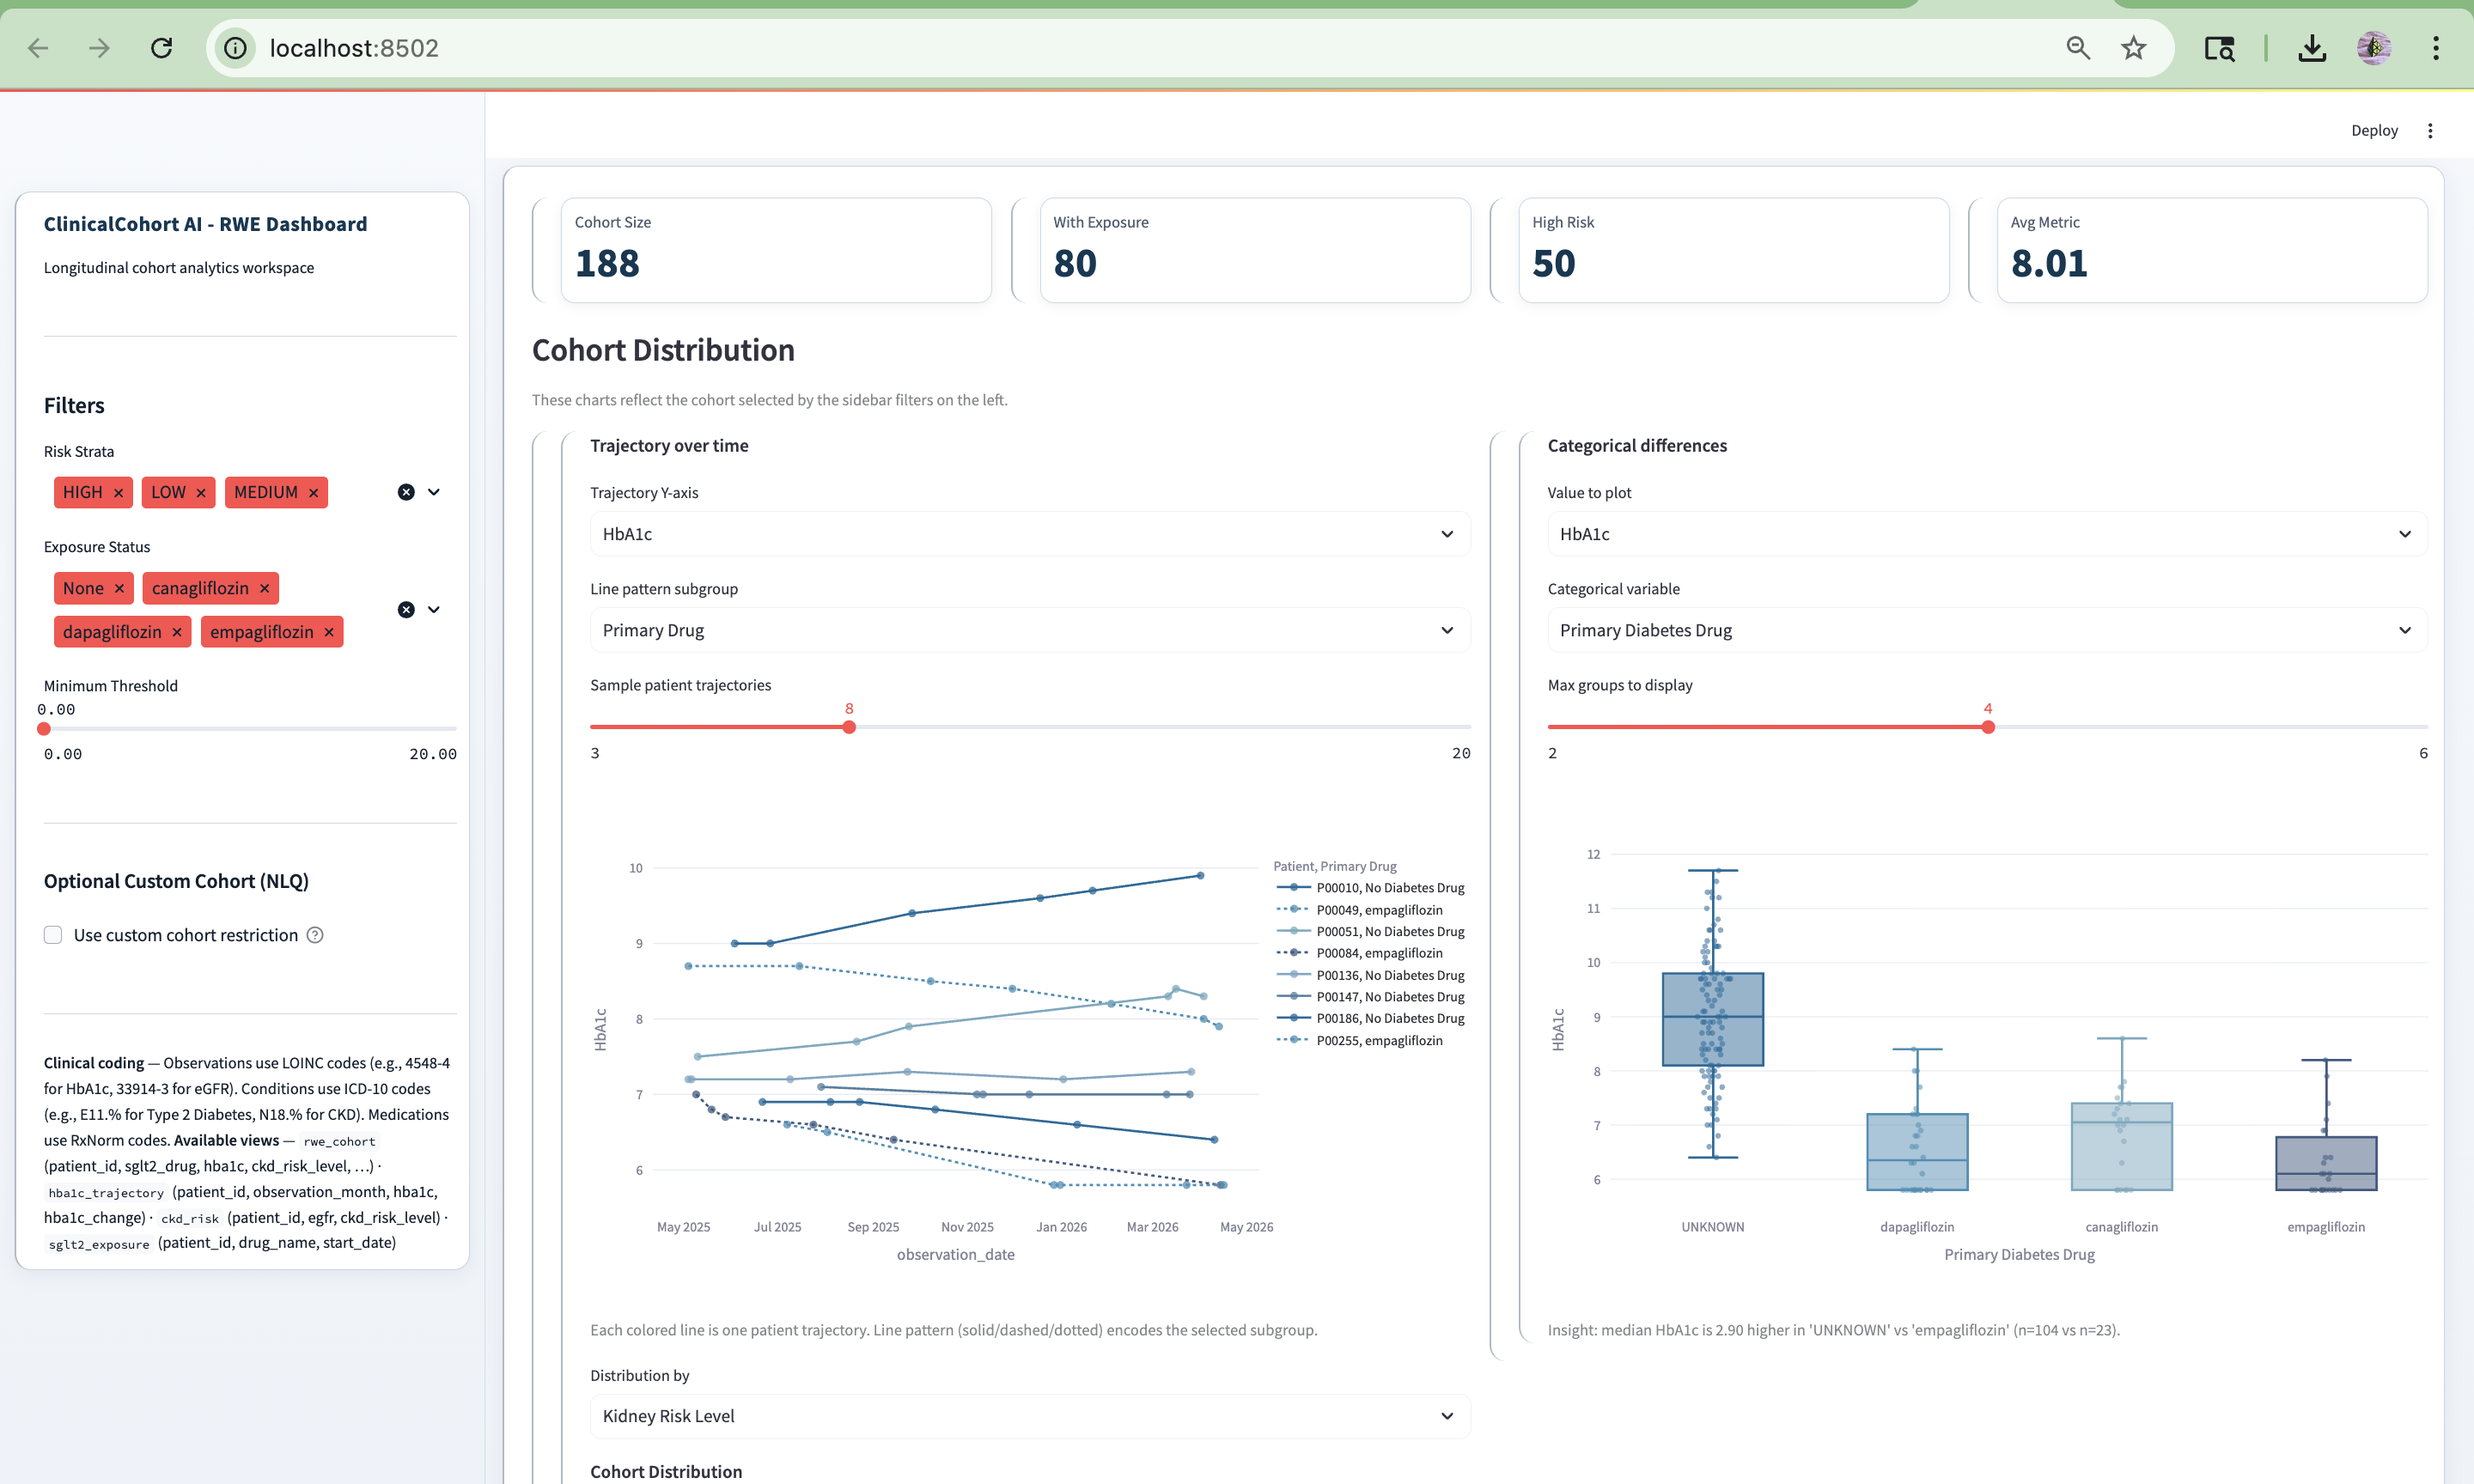
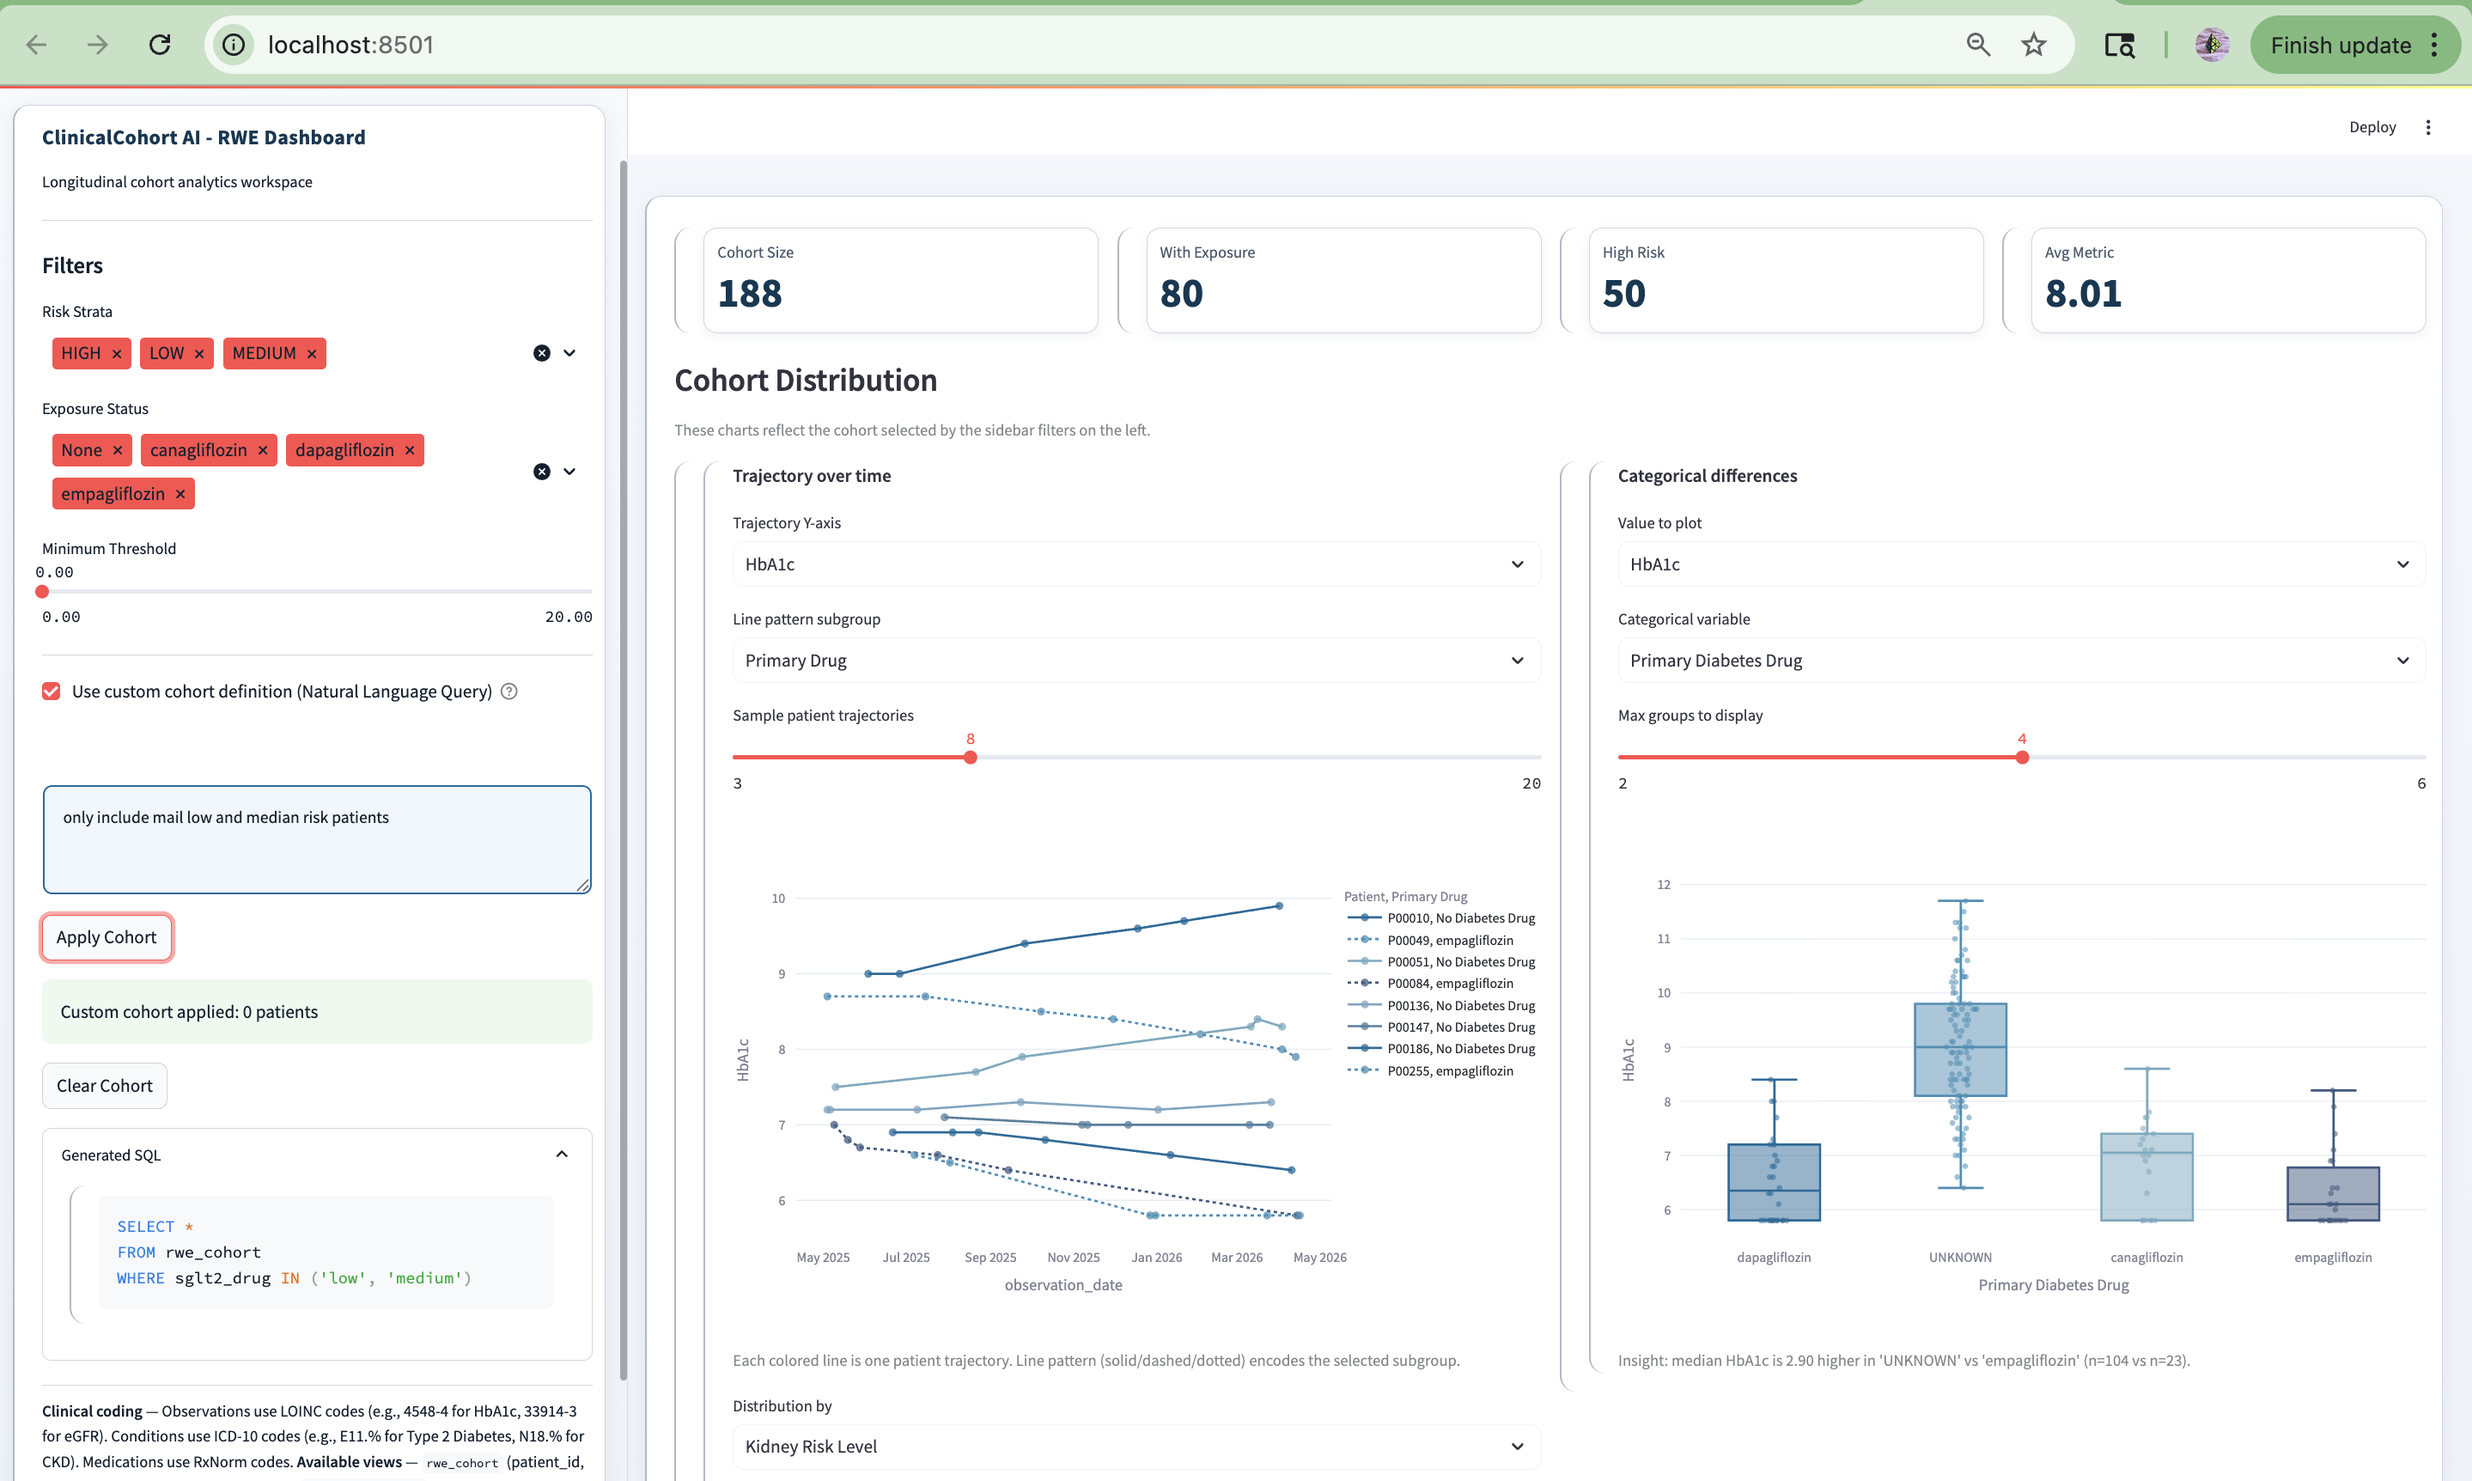
Improve dashboard UX: tighten sidebar spacing, show NLQ SQL inline, simplify cohort label; update README architecture section

diff --git a/dashboard/app.py b/dashboard/app.py
@@ -139,6 +139,19 @@ st.markdown(
     .stAlert {
         border-radius: 10px;
     }
+
+    [data-testid="stSidebar"] .stElementContainer {
+        margin-bottom: 0.05rem !important;
+    }
+
+    [data-testid="stSidebar"] [data-testid="stVerticalBlock"] > [data-testid="stVerticalBlockBorderWrapper"] {
+        margin-top: 0.15rem !important;
+        margin-bottom: 0.3rem !important;
+    }
+
+    [data-testid="stSidebar"] hr {
+        margin: 0.3rem 0 !important;
+    }
     </style>
     """,
     unsafe_allow_html=True,
@@ -205,18 +218,34 @@ if selected_drug:
         drug_filter = "1=0"  # nothing selected → no results
 
 st.sidebar.markdown("---")
-st.sidebar.subheader("Optional Custom Cohort (NLQ)")
 use_custom_cohort = st.sidebar.checkbox(
-    "Use custom cohort restriction",
+    "Use custom cohort definition (Natural Language Query)",
     value=st.session_state.get("use_custom_cohort", False),
     help="When enabled, the dashboard is restricted to patient_id values returned by the NLQ query below.",
 )
 st.session_state["use_custom_cohort"] = use_custom_cohort
 
 if use_custom_cohort:
-    st.sidebar.caption("Write a question that returns a `patient_id` column.")
+    st.sidebar.markdown(
+        """
+        <style>
+        [data-testid="stSidebar"] textarea {
+            border: 2px solid #0f6a9a !important;
+            border-radius: 8px !important;
+            background: #f0f7ff !important;
+            box-shadow: 0 0 0 3px rgba(15,106,154,0.15) !important;
+            font-size: 0.92rem !important;
+        }
+        [data-testid="stSidebar"] textarea:focus {
+            border-color: #0a4d73 !important;
+            box-shadow: 0 0 0 4px rgba(15,106,154,0.28) !important;
+        }
+        </style>
+        """,
+        unsafe_allow_html=True,
+    )
     cohort_question = st.sidebar.text_area(
-        "Custom cohort question",
+        "",
         key="cohort_question",
         placeholder="Example: List patient_id for HIGH CKD risk patients not on diabetes drug",
         height=90,
@@ -245,6 +274,10 @@ if use_custom_cohort:
         st.session_state.pop("cohort_sql", None)
         st.session_state.pop("cohort_result", None)
         st.session_state.pop("cohort_patient_df", None)
+
+    if "cohort_sql" in st.session_state:
+        with st.sidebar.expander("Generated SQL", expanded=True):
+            st.code(st.session_state["cohort_sql"], language="sql")
 
 st.sidebar.markdown("---")
 st.sidebar.caption(

diff --git a/README.md b/README.md
@@ -32,21 +32,41 @@ While the platform implements many best practices for data quality, modular ETL,
 
 ## How It Works
 
-**Input:**
-- Raw healthcare data (CSV, HL7 v2, FHIR bundles, or demo data)
-- Canonical schema: patients, encounters, conditions, observations, medications, claims
+This project implements a full **EHR data → SQL database → Analytics dashboard** pipeline that mirrors real-world healthcare data engineering workflows.
 
-**Processing:**
-- ETL pipeline extracts, normalizes, and loads data into DuckDB
-- Data quality checks and audit logging
-- SQL views define cohorts, risk strata, and metrics
-- Text-to-SQL agent (NLQ) translates natural language to safe SQL queries
+```
+EHR Sources               ETL Pipeline              SQL Database             Dashboard
+──────────────            ────────────────          ──────────────           ─────────────
+HL7 v2 messages  ──►      Parse & normalize  ──►    DuckDB / PostgreSQL  ──► Streamlit app
+FHIR bundles     ──►      Map to canonical   ──►    Managed SQL tables   ──► Cohort filters
+CSV / claims     ──►      schema             ──►    SQL views / metrics  ──► NLQ-to-SQL
+Synthea demo     ──►      Data quality QA    ──►    Audit log            ──► Charts & KPIs
+```
 
-**Output:**
-- Interactive Streamlit dashboard for cohort exploration
+**Input — EHR formats supported:**
+- **HL7 v2** messages (ADT, ORU, ORM segments) — parsed by `etl/parse_hl7v2.py`
+- **FHIR bundles** (stub in `etl/` — wire in your own loader)
+- **CSV / claims** exports mapped to the canonical schema
+- **Synthetic demo data** — auto-generated, zero setup required
+
+**ETL — what happens to the data:**
+- Messages/files are parsed and normalized to a canonical 6-table schema: `patients`, `encounters`, `conditions`, `observations`, `medications`, `claims`
+- Healthcare code systems are standardized: ICD-10, LOINC, RxNorm
+- Data is loaded into **DuckDB** (default, file-based, no server needed) — the same ETL logic can target **PostgreSQL, Snowflake, or any SQL warehouse** by swapping the loader
+- SQL views (`sql/views_*.sql`) define cohorts, risk strata, and derived metrics on top of the raw tables
+- Data quality checks generate audit reports
+
+**Database — managed SQL tables:**
+- The database layer is intentionally decoupled from both the ETL and the dashboard
+- In production, the ETL process would populate managed SQL tables on a schedule (e.g., daily incremental loads), and the dashboard would connect read-only to those tables
+- SQL views act as a stable API between the ETL-owned raw tables and the dashboard queries
+- DuckDB is used here for portability; replacing it with a managed warehouse requires only changing the connection in `etl/load.py` and `dashboard/app.py`
+
+**Output — dashboard fetches pre-defined views:**
+- Interactive Streamlit dashboard queries the SQL views directly — no application-layer data processing
 - Statistical visualizations (trajectories, distributions, group comparisons)
-- Data quality reports
-- Exportable cohort tables and metrics
+- Natural language → SQL agent lets analysts query the database in plain English
+- Data quality reports and exportable cohort tables
 
 ---
 
